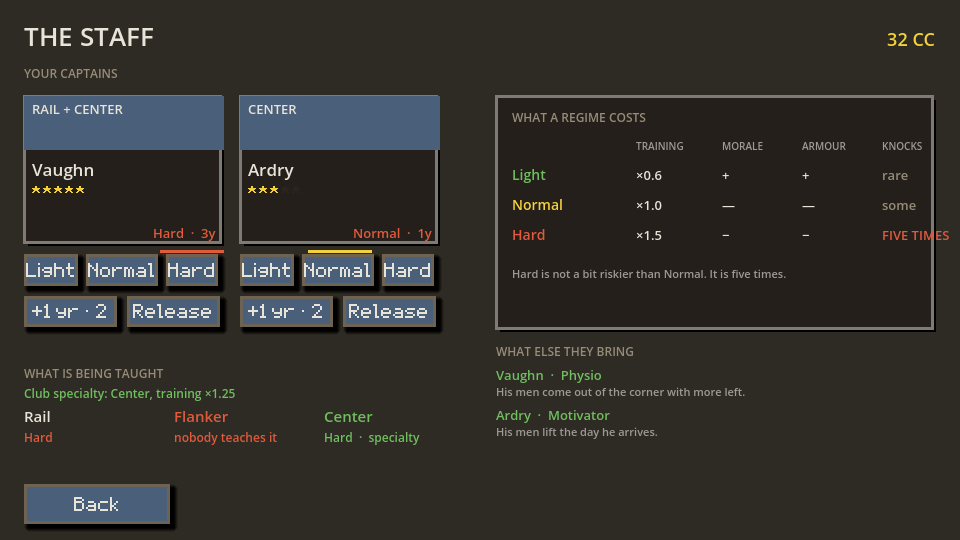
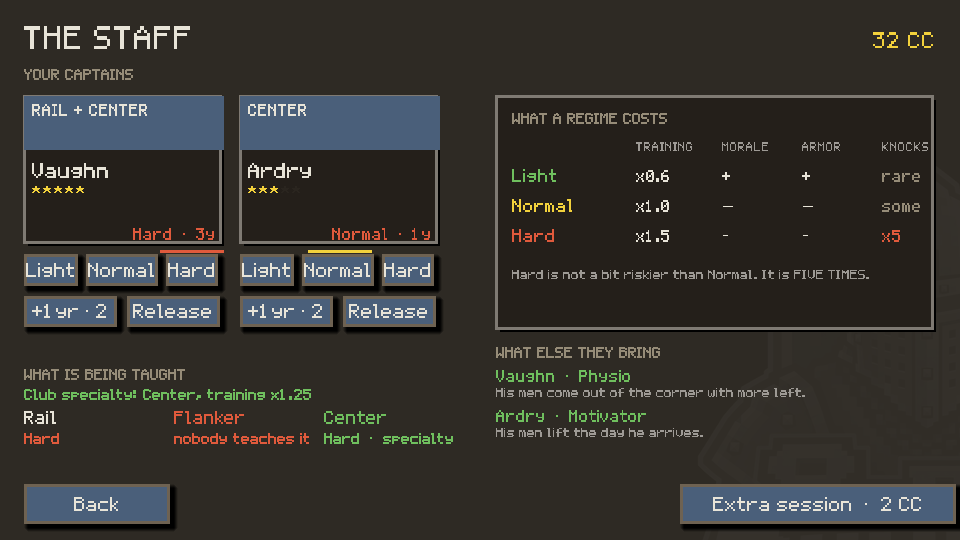
The tier is the pipeline, and a team training sink
Pete, turning down a youth slot: "the age should already be an under-23 or so
boost anyway. What more boost would they need to eventually catch up the old
men and become starters if they're a higher tier? Like, the same tier pipeline
shouldn't matter much in the same tier, but training a new guy from a higher
tier should surpass the older lower tier guy."

That is a claim with a number in it and it had never been measured, so it got
measured before anything was built. A 22-year-old signing against the finished
30-year-old he is behind, with the signing sitting in the RESERVE the whole
time and the incumbent starting every week -- the hard version:

                                       starts  ends  passes him
  own division, no captain                 39    40     never
  own division, 4-star captain             39    52   season 7
  from the division above, no captain      49    49   season 1
  from the division above, 4-star          49    63   season 1

He is right on every clause. Same tier barely matters -- seven seasons with
the best coaching in the game and never without it. A tier above surpasses him
at once. And coaching is the thing that turns a prospect into a starter: the
same man is worth 40 or 52 after ten seasons depending only on who taught him.
So: no youth slot, no extra under-23 boost.

ONE PIECE WAS MISSING. `roll_potential` read `potential_room(age)` AND NOTHING
ELSE, so two 22-year-olds rated 39 had identical prospects whether one had
[…]

diff --git a/docs/THE-TIER-PIPELINE-15-SEP.md b/docs/THE-TIER-PIPELINE-15-SEP.md
@@ -1,0 +1,140 @@
+# The tier is the pipeline
+
+15 Sep 2026 · `tools/probe_growth.gd` Part E
+
+> *"No to the youth slot. Alright so we can go with a 'team training' CC sink...
+> Team coach with a static training exp gain plus game exp gain doesn't work?
+> Then the age should already be an under-23 or so boost anyway. What more boost
+> would they need to eventually catch up the old men and become starters if
+> they're a higher tier? Like, the same tier pipeline shouldn't matter much in
+> the same tier, but training a new guy from a higher tier should surpass the
+> older lower tier guy."*
+
+The question deserved a measurement before anything else got built, so it got
+one. **You were right, and one piece of it was missing.**
+
+---
+
+## The measurement
+
+A twenty-two-year-old signing against the thirty-year-old he is behind — a
+finished man at the top of the Backyard band. The signing sits in the **reserve
+the whole time** and the incumbent starts every week, which is the hard version
+of the question.
+
+```
+                                         starts   ends   passes him
+a 22-year-old from his own division         39      40      never
+   the 30-year-old he is behind             45      42
+
+a 22-year-old raw, but reared one up        40      40      never
+   the 30-year-old he is behind             45      42
+
+a 22-year-old from the one above            49      49    season 1
+   the 30-year-old he is behind             45      42
+```
+
+...and the same four rows with a four-star captain teaching his role:
+
+```
+a 22-year-old from his own division         39      52    season 7
+a 22-year-old raw, but reared one up        40      53    season 6
+a 22-year-old from the one above            49      63    season 1
+```
+
+Read the first column against the third and the whole design is in it:
+
+- **Same tier barely matters.** Seven seasons with the best coaching in the game,
+  and *never* without it. Exactly the weight you asked for.
+- **A tier above surpasses him at once** — season one, with no captain at all —
+  because he arrives better and then keeps climbing.
+- **Coaching is the thing that turns a prospect into a starter.** The same man is
+  worth 40 or 52 after ten seasons depending only on who was teaching him.
+
+So: no youth slot, no extra under-23 boost. The tier gap already does the work,
+and the practice week is what lets it.
+
+---
+
+## The piece that was missing
+
+Look at the middle row. **A raw man reared one division up was identical to a
+local boy** — never passed him without coaching, and beat him by a single season
+with it.
+
+`Career.roll_potential` read `potential_room(age)` **and nothing else**. Two
+twenty-two-year-olds rated 39 had the same prospects whether one of them had
+spent his career training against National fighters or against a back field. So
+the rare case the market exists to create — the cheap man from up the pyramid
+whose rating is low and whose ceiling is not — was not a thing that could happen.
+
+It now reads the standard he was reared against: the top of the band he was
+**drawn from**, not the one he is being sold into.
+
+```gdscript
+if standard > f.overall():
+    bonus = min(STANDARD_ROOM, (standard - overall) / 2) × room / POTENTIAL_GAP_MAX
+```
+
+Two details carry it:
+
+**It is added after the roll, not into its range.** Widening the range leaves the
+draw uniform, so a raw man reared a division up would be better only *on average*
+and any one of them could still roll a nothing ceiling. The first cut did exactly
+that and produced season 6 against season 7 — noise wearing a rule's clothes.
+*Evidence shifts an estimate; it does not merely widen it.*
+
+**It fades with age on the same curve the room does.** A thirty-four-year-old
+rated 40 off a National shelf is a journeyman who was in the building, not a
+prospect, and handing him nine points of ceiling he has no years left to reach
+would make "reared up the pyramid" a laundering trick for old men.
+
+After:
+
+```
+a 22-year-old raw, but reared one up, no captain    40 -> 43    season 10
+a 22-year-old raw, but reared one up, 4-star        40 -> 58     season 3
+```
+
+Season 3 and a finish of 58, against the local boy's season 7 and 52. That is the
+sentence — *training a new guy from a higher tier should surpass the older lower
+tier guy* — with numbers under it.
+
+---
+
+## Team training
+
+A club-wide credits sink, because there was more money in this economy than
+things worth buying with it: `probe_pace` had clubs ending every season with
+sixty to ninety unspent credits. The captains are hired once and the ground is
+built once; neither absorbs a surplus that arrives every week.
+
+- **Price is a share of the division's slack**, like the signing fee, so it means
+  the same thing at every rung: **2 / 4 / 4 / 8 CC** against a season's 16 / 33 /
+  37 / 67.
+- **One a matchday**, the throttle every building here already follows, so a
+  windfall cannot buy a career.
+- It runs `_practice()` immediately rather than banking a promise in
+  `built_this_week` — that dictionary is not saved, so a player who paid on
+  Tuesday and closed the game would have bought nothing. *Paying for a thing and
+  having it happen is one step or it is a bug.*
+- It lives on **the Staff screen**, not the Clubhouse. What it buys is a week's
+  work at the grade of whoever teaches each role, so its worth is decided
+  entirely by the two cards above it — and the Clubhouse was already the tab you
+  called too crowded.
+
+### What it did
+
+```
+season  power  leader  tier          before  
+     1   36.6    45.0   0.0           36.6   
+    10   40.2    48.0   0.2           41.2   
+    19   52.8    62.2   1.4           46.8   
+```
+
+The competent manager finishes on **52.8 and pushing at the third division**,
+against 46.8 without the sink. Mean starting-five age is drifting down for the
+first time, and the finish column reaches 0.17 and 0.40 in the late seasons.
+
+Still ending seasons with ~68 credits in hand, so the sink absorbs real money and
+has not solved the surplus. That is the next thing to look at, not this one.
